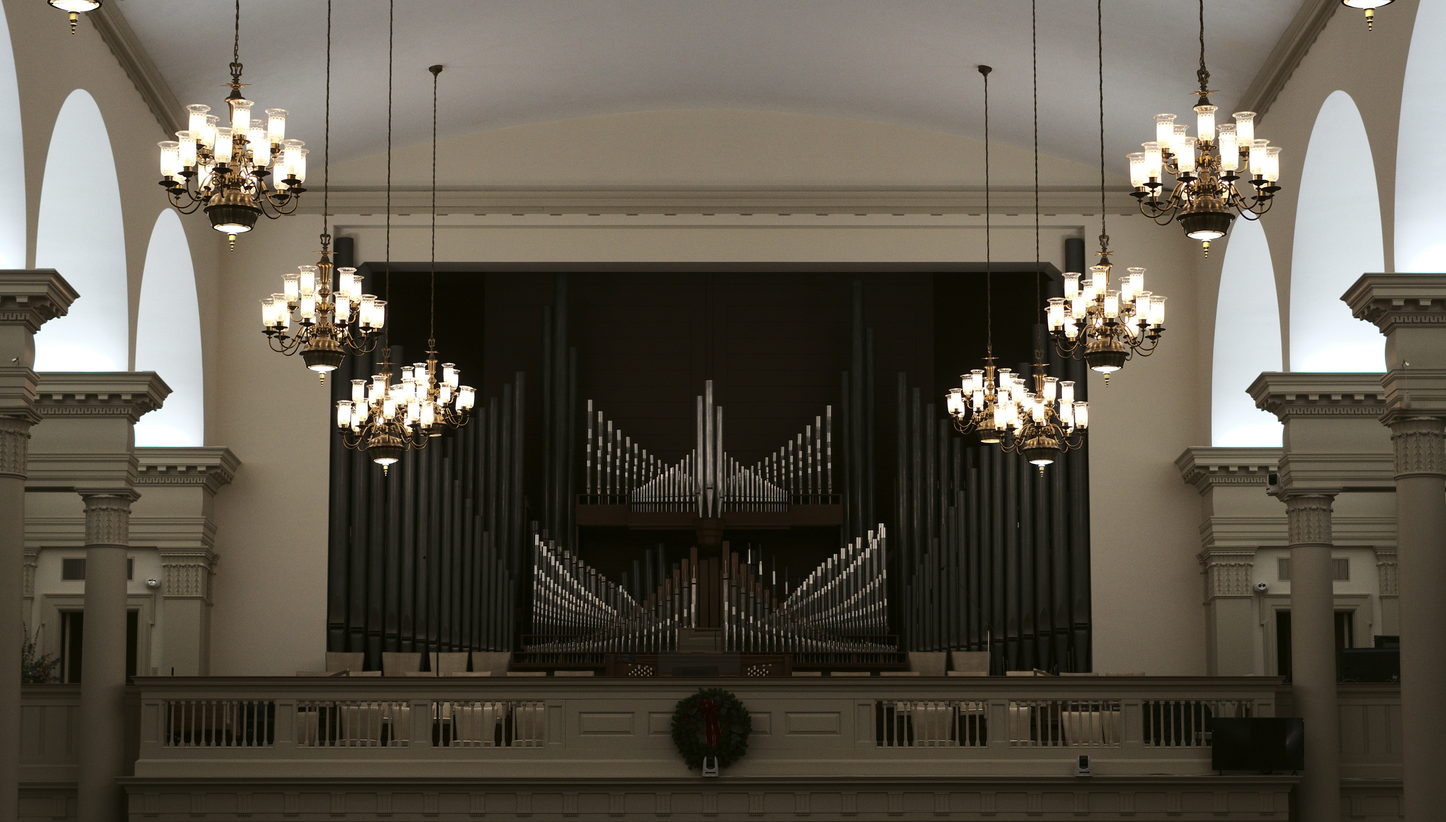
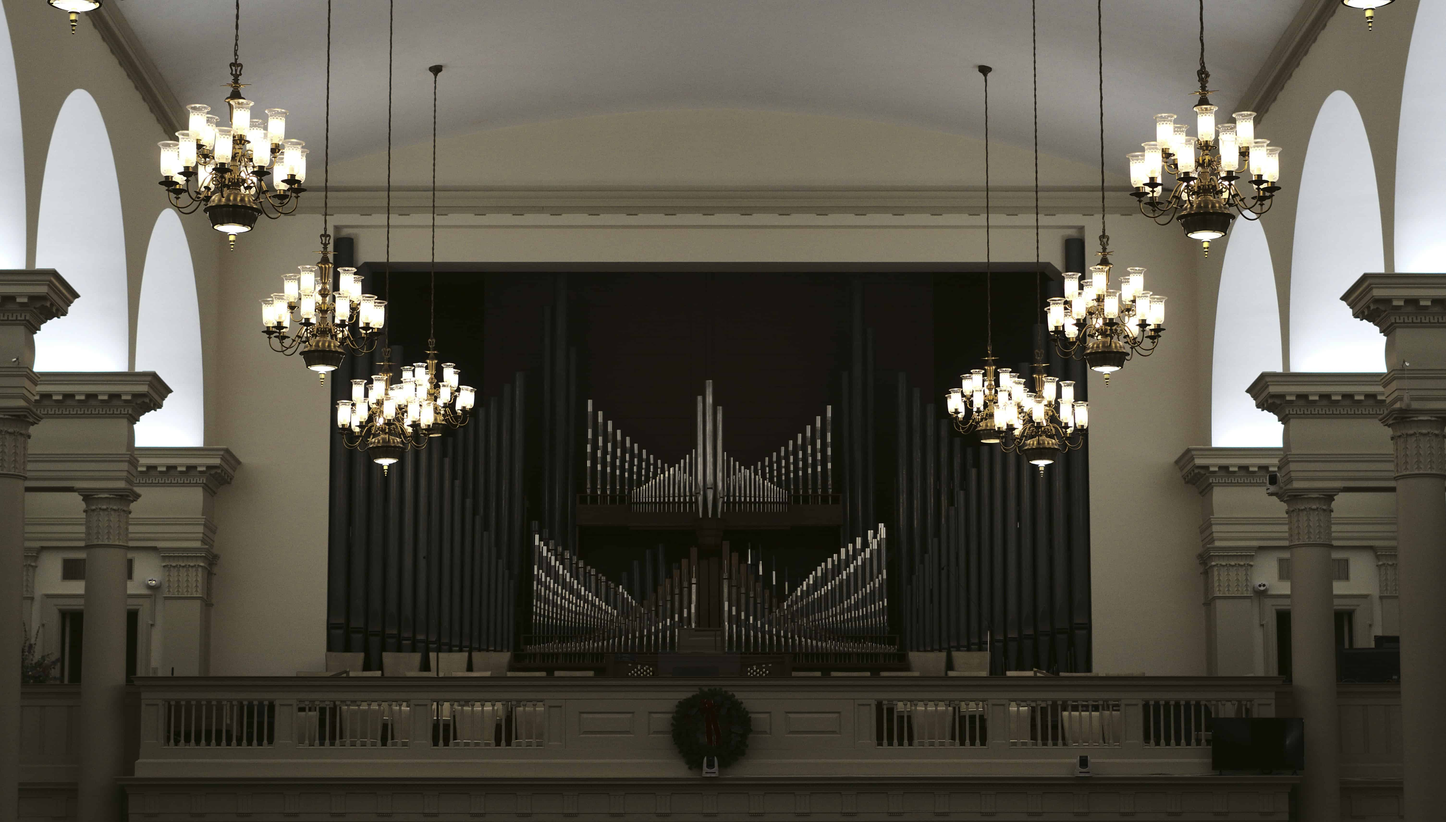
feat: enhance SEO with meta tags, add robots.txt, and optimize image loading

diff --git a/src/components/user/VenueGallery.jsx b/src/components/user/VenueGallery.jsx
@@ -2,18 +2,17 @@ import React, { useRef } from "react";
 import { motion } from "framer-motion";
 import { ChevronLeft, ChevronRight, Sparkles, Star } from "lucide-react";
 import { useFilterVenues } from "../../hooks/user/useFilterVenues";
+import { cloudinaryTransform, GALLERY_TRANSFORM } from "../../utils/cloudinary";
 
 export default function VenueGallery() {
   const filters = {};
   const { data, isLoading, isError, error } = useFilterVenues(filters);
   const venues = data?.data || [];
 
-  const BASE_URL = import.meta.env.VITE_BACKEND_URL || "http://localhost:5050";
-
-  // Map backend venues to the shape used in UI rendering
+  // Map backend venues — apply Cloudinary transforms to cut image payload ~90%
   const mappedVenues = venues.map((v) => ({
     id: v._id,
-    image: v.venueImages?.[0]?.url || "/fallback-image.jpg",
+    image: cloudinaryTransform(v.venueImages?.[0]?.url || "", GALLERY_TRANSFORM) || "/fallback-image.jpg",
     title: v.venueName,
     location: v.location
       ? `${v.location.city}, ${v.location.state}`
@@ -144,10 +143,7 @@ export default function VenueGallery() {
         transition={{ duration: 1, delay: 0.2 }}
       >
         {mappedVenues.map((venue, idx) => {
-          // Compose image URL, handling backend relative URLs vs absolute URLs
-          const imgSrc = venue.image.startsWith("http")
-            ? venue.image
-            : `${BASE_URL}/${venue.image}`;
+          const imgSrc = venue.image;
 
           return (
             <motion.div
@@ -172,6 +168,10 @@ export default function VenueGallery() {
                 <img
                   src={imgSrc}
                   alt={venue.title}
+                  width={900}
+                  height={600}
+                  loading="lazy"
+                  decoding="async"
                   className="w-full h-full object-cover transition-transform duration-700 group-hover:scale-110"
                 />
 

diff --git a/index.html b/index.html
@@ -13,12 +13,28 @@
     <meta name="application-name" content="Venure" />
     <meta name="theme-color" content="#ffffff" />
 
-    <!-- Fonts -->
-    <link href="https://fonts.googleapis.com/css2?family=Playfair+Display:wght@500;700&family=Poppins:wght@400;600&display=swap" rel="stylesheet">
-
     <!-- Meta -->
     <meta name="viewport" content="width=device-width, initial-scale=1.0" />
-    <title>Venure</title>
+    <meta name="description" content="Venure — discover and book premium event venues in Nepal. Stunning spaces for weddings, corporate events, and private celebrations." />
+    <meta name="keywords" content="venue booking, event venue, wedding venue, Nepal, party hall" />
+    <meta property="og:title" content="Venure — Premium Event Venues" />
+    <meta property="og:description" content="Discover and book premium event venues in Nepal." />
+    <meta property="og:type" content="website" />
+    <title>Venure — Premium Event Venues</title>
+
+    <!-- Fonts: preconnect first, then load non-blocking -->
+    <link rel="preconnect" href="https://fonts.googleapis.com" />
+    <link rel="preconnect" href="https://fonts.gstatic.com" crossorigin />
+    <link rel="preconnect" href="https://res.cloudinary.com" />
+    <link
+      rel="stylesheet"
+      href="https://fonts.googleapis.com/css2?family=Playfair+Display:wght@500;700&family=Poppins:wght@400;600&display=swap"
+      media="print"
+      onload="this.media='all'"
+    />
+    <noscript>
+      <link rel="stylesheet" href="https://fonts.googleapis.com/css2?family=Playfair+Display:wght@500;700&family=Poppins:wght@400;600&display=swap" />
+    </noscript>
   </head>
 
   <body>

diff --git a/src/components/common/UserVenueCard.jsx b/src/components/common/UserVenueCard.jsx
@@ -8,16 +8,15 @@ import {
   ArrowRight,
   Heart,
 } from "lucide-react";
-
-const BASE_URL = import.meta.env.VITE_BACKEND_URL || "http://localhost:5050";
+import { cloudinaryTransform, CARD_TRANSFORM } from "../../utils/cloudinary";
 
 export default function UserVenueCard({ venue, index, isFavorite, onToggleFavorite }) {
   const navigate = useNavigate();
 
-  const imageUrl =
-    venue.venueImages?.length > 0
-      ? `${BASE_URL}/${venue.venueImages[0].url}`
-      : "https://via.placeholder.com/400x250?text=Elegant+Venue";
+  const rawUrl = venue.venueImages?.[0]?.url || "";
+  const imageUrl = rawUrl
+    ? cloudinaryTransform(rawUrl, CARD_TRANSFORM)
+    : "https://placehold.co/600x400?text=Venue";
 
   return (
     <motion.div
@@ -33,11 +32,16 @@ export default function UserVenueCard({ venue, index, isFavorite, onToggleFavori
         <img
           src={imageUrl}
           alt={venue.venueName}
+          width={600}
+          height={400}
+          loading="lazy"
+          decoding="async"
           className="w-full h-full object-cover rounded-t-3xl"
         />
 
         <button
           onClick={onToggleFavorite}
+          aria-label={isFavorite ? "Remove from favorites" : "Add to favorites"}
           className="absolute top-4 right-4 bg-white/80 backdrop-blur-md p-2 rounded-full shadow hover:scale-110 transition"
         >
           <Heart

diff --git a/src/components/user/HeroSection.jsx b/src/components/user/HeroSection.jsx
@@ -1,7 +1,5 @@
-import venueImg from "../../assets/venueInterior.jpg";
-import vineyardImg from "../../assets/vineyard.jpg";
+
 import cutleryImg from "../../assets/cutleryImg.png";
-import beautifulImg from "../../assets/beautifuImg.jpg";
 import one from "../../assets/one.jpg";
 import React, { useState, useEffect } from "react";
 import { motion } from "framer-motion";
@@ -66,6 +64,8 @@ export default function HeroSection() {
           <motion.img
             src={one}
             alt="Luxury Venue"
+            fetchpriority="high"
+            decoding="async"
             className="w-full h-full object-cover group-hover:scale-110 transition-transform duration-[3000ms] ease-out"
             initial={{ scale: 1.1, opacity: 0 }}
             animate={{ scale: 1, opacity: 1 }}
@@ -229,6 +229,8 @@ export default function HeroSection() {
               <img
                 src={cutleryImg}
                 alt="Luxury Dining Experience"
+                loading="lazy"
+                decoding="async"
                 className="w-full md:w-[85%] h-48 object-cover group-hover:scale-105 transition-transform duration-700 ease-out"
                 style={{
                   filter: "brightness(1.1) contrast(1.1) saturate(1.15)",

diff --git a/src/auth/AuthProvider.jsx b/src/auth/AuthProvider.jsx
@@ -26,13 +26,18 @@ const AuthContextProvider = ({ children }) => {
   // initialized; if isInitializing is still true we got here during the
   // very first /auth/me check which means there was simply never a session.
   const handleSessionExpired = useCallback(() => {
-    const { isInitializing: stillInit } = useAuthStore.getState();
+    const { isInitializing: stillInit, isAuthenticated: wasAuthenticated } =
+      useAuthStore.getState();
 
     clearUser();
-    queryClient.clear();
     disconnectSocket();
 
-    if (!stillInit) {
+    // Only redirect when the user HAD an active session. If isInitializing is
+    // still true we're in the very first /auth/me check (no prior session).
+    // If wasAuthenticated is false the user is a guest; hitting a protected
+    // endpoint as a guest should not kick them to the login page.
+    if (!stillInit && wasAuthenticated) {
+      queryClient.clear();
       toast.error("Your session has expired. Please log in again.");
       window.location.replace("/login");
     }

diff --git a/src/utils/cloudinary.js b/src/utils/cloudinary.js
@@ -1,0 +1,15 @@
+/**
+ * Inserts Cloudinary transformations into an existing upload URL.
+ * Works only for URLs containing "/image/upload/"; passes everything else through unchanged.
+ *
+ * @param {string} url    - The original Cloudinary URL (or any URL).
+ * @param {string} transforms - Cloudinary transformation string, e.g. "w_800,h_600,c_fill,f_auto,q_auto"
+ */
+export function cloudinaryTransform(url, transforms = "f_auto,q_auto,w_800,c_limit") {
+  if (!url || !url.includes("/image/upload/")) return url;
+  return url.replace("/image/upload/", `/image/upload/${transforms}/`);
+}
+
+export const CARD_TRANSFORM   = "f_auto,q_auto,w_600,h_400,c_fill";
+export const GALLERY_TRANSFORM = "f_auto,q_auto,w_900,h_600,c_fill";
+export const THUMB_TRANSFORM   = "f_auto,q_auto,w_80,h_80,c_fill";

diff --git a/vite.config.js b/vite.config.js
@@ -30,5 +30,18 @@ export default defineConfig({
       },
     },
   },
-  plugins: [react(),tailwindcss()],
+  plugins: [react(), tailwindcss()],
+  build: {
+    rollupOptions: {
+      output: {
+        manualChunks: {
+          vendor: ["react", "react-dom"],
+          router: ["react-router-dom"],
+          animations: ["framer-motion"],
+          query: ["@tanstack/react-query"],
+          icons: ["lucide-react", "react-icons"],
+        },
+      },
+    },
+  },
 });

diff --git a/src/features/venues/hooks/useVenues.js b/src/features/venues/hooks/useVenues.js
@@ -17,7 +17,7 @@ export const useVenues = (filters = {}) => {
   const query = useQuery({
     queryKey: ["venues", filters],
     queryFn: async () => {
-      const res = await api.get("/user/venues/getApprovedVenues", {
+      const res = await api.get("/venues", {
         params: filters,
       });
       return res.data; // full envelope — caller can access .data and .pages

diff --git a/src/api/user/venue.js b/src/api/user/venue.js
@@ -1,11 +1,11 @@
 import instance from "../api";
 
 export const getFilteredVenuesApi = (filters) => {
-  return instance.get("/user/venues/getApprovedVenues", { params: filters });
+  return instance.get("/venues", { params: filters });
 };
 
 export const getVenueByIdApi = (id) => {
-  return instance.get(`/user/venues/${id}`);
+  return instance.get(`/venues/${id}`);
 };
 
 

diff --git a/src/api/api.js b/src/api/api.js
@@ -1,8 +1,7 @@
 import axios from "axios";
 import { toast } from "react-toastify";
 
-const BASE_URL =
-  import.meta.env.VITE_API_BASE_URL || "http://localhost:5051/api";
+const BASE_URL = import.meta.env.VITE_API_BASE_URL ||"http://localhost:5051/api";
 
 const api = axios.create({
   baseURL: BASE_URL,
